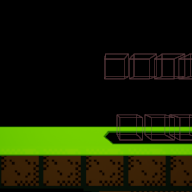
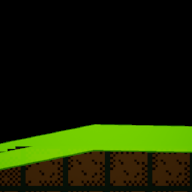
Inventory MoveAction - modifies opacity of the item we want to move

Changed region(s): [[0.0, 0.5938, 1.0, 1.0], [0.5312, 0.25, 1.0, 0.4375]]

diff --git a/Source/TG/UI/ExplorerMode/InventoryWidget.cpp b/Source/TG/UI/ExplorerMode/InventoryWidget.cpp
@@ -135,7 +135,7 @@ void UInventoryWidget::InitializeRefs()
 
 void UInventoryWidget::MoveInInventory(EMoveDirections iMoveDir)
 {
-	FVector2D l_targetDirection = currentlyActiveSlot;
+	FVector2D l_targetDirection = currentlyActiveSlotCoord;
 	switch (iMoveDir)
 	{
 	case EMoveDirections::UP:
@@ -168,22 +168,22 @@ void UInventoryWidget::MoveInInventory(EMoveDirections iMoveDir)
 
 void UInventoryWidget::HighlightSelectedSlot()
 {
-	UInventorySlot* l_ref = *mapRefInventorySlots.Find(currentlyActiveSlot);
+	UInventorySlot* l_ref = *mapRefInventorySlots.Find(currentlyActiveSlotCoord);
 	l_ref->slotData.bIsSelected = true;
 	l_ref->UpdateInventoryButtonBackgroundType();
 }
 
 void UInventoryWidget::DeHighlightLastSelectedSlot()
 {
-	UInventorySlot* l_ref = *mapRefInventorySlots.Find(lastActiveSlot);
+	UInventorySlot* l_ref = *mapRefInventorySlots.Find(lastActiveSlotCoord);
 	l_ref->slotData.bIsSelected = false;
 	l_ref->UpdateInventoryButtonBackgroundType();
 }
 
 void UInventoryWidget::SelectNeighbourSlot(FVector2D iTarget)
 {
-	lastActiveSlot = currentlyActiveSlot;
-	currentlyActiveSlot = iTarget;
+	lastActiveSlotCoord = currentlyActiveSlotCoord;
+	currentlyActiveSlotCoord = iTarget;
 	DeHighlightLastSelectedSlot();
 	HighlightSelectedSlot();
 	UpdateTooltipData();
@@ -211,7 +211,7 @@ void UInventoryWidget::GetStartingSlot()
 	
 
 	//above stuff is attempt to make it start from middle but it breaks with certain sizes, fk it just starts in 0, simple
-	currentlyActiveSlot = FVector2D(0,0);
+	currentlyActiveSlotCoord = FVector2D(0,0);
 }
 
 void UInventoryWidget::UpdateItemsFromPlayerInventory(TArray<class UInventorySlot*> iPlayerInventory)
@@ -242,7 +242,7 @@ void UInventoryWidget::UpdateTooltipData()
 
 
 	//lets find the selected slot data
-	UInventorySlot* l_currInventorySlot = *mapRefInventorySlots.Find(currentlyActiveSlot);
+	UInventorySlot* l_currInventorySlot = *mapRefInventorySlots.Find(currentlyActiveSlotCoord);
 	if (l_currInventorySlot == nullptr)
 	{
 		refTooltipBox->SetVisibility(ESlateVisibility::Hidden);
@@ -308,11 +308,11 @@ void UInventoryWidget::UpdateTooltipData()
 void UInventoryWidget::UseSelectedItem()
 {
 	//lets find the selected slot data
-	if (!mapRefInventorySlots.Contains(currentlyActiveSlot))
+	if (!mapRefInventorySlots.Contains(currentlyActiveSlotCoord))
 	{
 		return;
 	}
-	UInventorySlot* l_currInventorySlot = *mapRefInventorySlots.Find(currentlyActiveSlot);
+	UInventorySlot* l_currInventorySlot = *mapRefInventorySlots.Find(currentlyActiveSlotCoord);
 
 	UE_LOG(LogTemp, Warning, TEXT("\n SLOTDATA \n Index: %i \n slotType: %s \n slotType: %s"),
 		l_currInventorySlot->slotData.slotIndex,
@@ -365,11 +365,11 @@ void UInventoryWidget::UseSelectedItem()
 
 void UInventoryWidget::DropSelectedItem()
 {
-	if (!mapRefInventorySlots.Contains(currentlyActiveSlot))
+	if (!mapRefInventorySlots.Contains(currentlyActiveSlotCoord))
 	{
 		return;
 	}
-	UInventorySlot* l_currInventorySlot = *mapRefInventorySlots.Find(currentlyActiveSlot);
+	UInventorySlot* l_currInventorySlot = *mapRefInventorySlots.Find(currentlyActiveSlotCoord);
 	if (l_currInventorySlot == nullptr || l_currInventorySlot->slotData.refItem == nullptr)
 	{
 		UE_LOG(LogTemp, Warning, TEXT("UInventoryWidget: l_currInventorySlot == nullptr"));
@@ -403,13 +403,14 @@ void UInventoryWidget::DropSelectedItem()
 void UInventoryWidget::InventoryMoveActionSelectedItem()
 {
 	
-	if (!mapRefInventorySlots.Contains(currentlyActiveSlot))
+	if (!mapRefInventorySlots.Contains(currentlyActiveSlotCoord))
 	{
 		return;
 	}
 
-	UInventorySlot* l_currInventorySlot = *mapRefInventorySlots.Find(currentlyActiveSlot);
-
+	UInventorySlot* l_currInventorySlot = *mapRefInventorySlots.Find(currentlyActiveSlotCoord);
+	UInventorySlot* l_lastInventorySlot = *mapRefInventorySlots.Find(lastSelectedItemForMoveSlotCoord);
+	
 	/*if we are not doing move action, select item to be moved*/
 	if (!bAreWeDoingAMoveAction)
 	{
@@ -419,6 +420,16 @@ void UInventoryWidget::InventoryMoveActionSelectedItem()
 			UE_LOG(LogTemp, Warning, TEXT("There is nothing in slot"));
 			return;
 		}
+
+		//set selected item opacity lower
+		FLinearColor l_slotColor;
+		l_slotColor = l_currInventorySlot->refItemIcon->ColorAndOpacity;
+		l_oldSlotColor = l_slotColor;
+		l_slotColor = l_slotColor.CopyWithNewOpacity(0.2);
+		l_currInventorySlot->refItemIcon->SetColorAndOpacity(l_slotColor);
+
+		//store the coordinate of this selected slot, atm need it to switch the opacity back in the old slot
+		lastSelectedItemForMoveSlotCoord = currentlyActiveSlotCoord;
 
 		//store index of the slot we want to do the move action on
 		bAreWeDoingAMoveAction = true;
@@ -439,6 +450,7 @@ void UInventoryWidget::InventoryMoveActionSelectedItem()
 		{
 			UE_LOG(LogTemp, Warning, TEXT("UInventoryWidget::InventoryActionSelectedItem() item we're attempting to move has been deleted/dropped"));
 			bAreWeDoingAMoveAction = false;
+			l_lastInventorySlot->refItemIcon->SetColorAndOpacity(l_oldSlotColor);
 			return;
 		}
 
@@ -449,7 +461,7 @@ void UInventoryWidget::InventoryMoveActionSelectedItem()
 		{
 			UE_LOG(LogTemp, Warning, TEXT("UInventoryWidget::InventoryActionSelectedItem()  can't move item to inventory slot, return"));
 			bAreWeDoingAMoveAction = false;
-			//also disable the opacity when i do it later TODO !!
+			l_lastInventorySlot->refItemIcon->SetColorAndOpacity(l_oldSlotColor);
 			return;
 		}
 
@@ -464,6 +476,8 @@ void UInventoryWidget::InventoryMoveActionSelectedItem()
 			refPlayerCharacter->GetInventoryComponent()->SwapItemInInventory(currentlySelectedItemForMoveIndex, destinationSlotIdx);
 			bAreWeDoingAMoveAction = false;
 			UE_LOG(LogTemp, Warning, TEXT("UInventoryWidget::InventoryActionSelectedItem()  swapped item successfully"));
+			l_lastInventorySlot->refItemIcon->SetColorAndOpacity(l_oldSlotColor);
+			return;
 		}
 
 

diff --git a/Source/TG/UI/ExplorerMode/InventoryWidget.h b/Source/TG/UI/ExplorerMode/InventoryWidget.h
@@ -105,10 +105,11 @@ protected:
 	//inventory selection what do i need to do
 	//move up/down/left/right, add the selected img on selected one and normal one on last.
 
-	FVector2D currentlyActiveSlot;
-	FVector2D lastActiveSlot;
+	FVector2D currentlyActiveSlotCoord;
+	FVector2D lastActiveSlotCoord;
 
 	int32 currentlySelectedItemForMoveIndex;
+	FVector2D lastSelectedItemForMoveSlotCoord;
 
 	//Making 2 of these instead of one function with inputs because i think this is a little bit easier to understand
 	void HighlightSelectedSlot();
@@ -135,6 +136,6 @@ protected:
 public:
 	int32 GetFirstEmptyInventorySlotIndex();
 
-
-
+	private:
+		FLinearColor l_oldSlotColor;
 };
